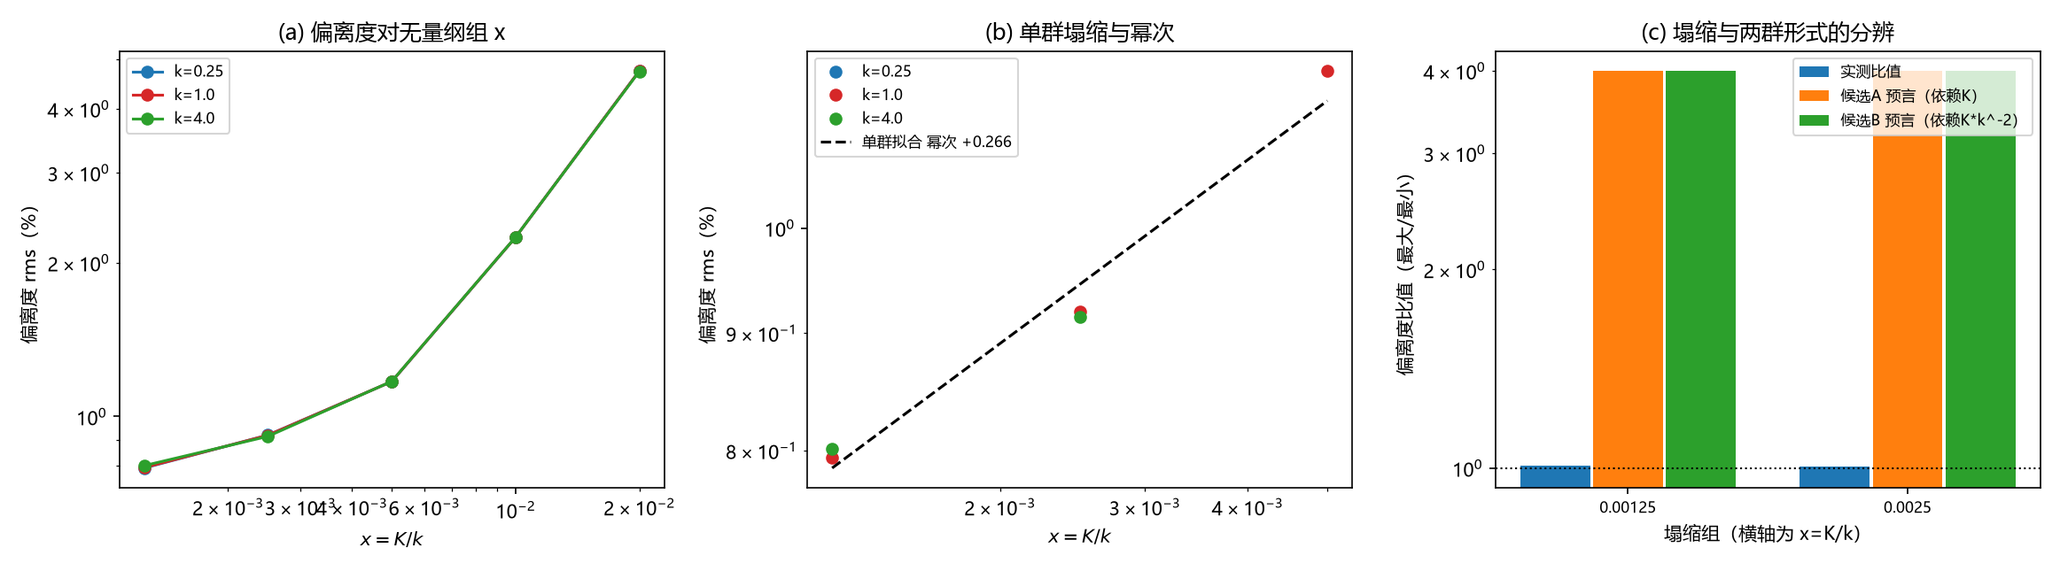
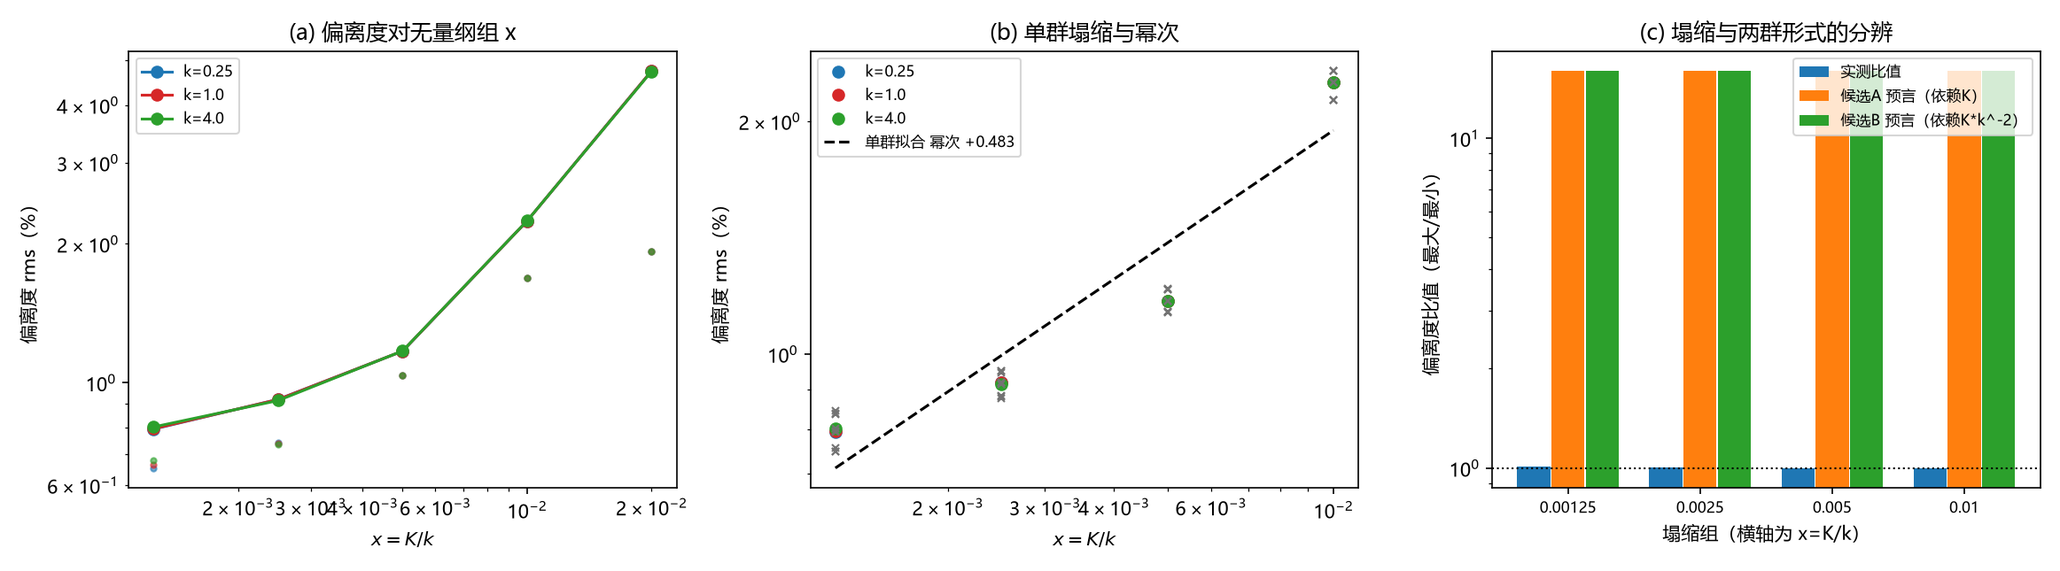
第 810 号交付：偏离度的无量纲单组塌缩与机制分辨（判据 J1 至 J8，6/8）
塌缩成立：FK 链无量纲组只剩 x=K/k，四个 x 档上三档 k 的偏离度相对极差 0.044% 至 1.072%，
两个两群候选各被排除 4 组（力度 15.83 倍以上），偏离度对 x 的幂次 +0.4834（标准误 0.0536），
指向半阶离散修正。§5.1 缺口收窄为半阶修正系数与 v^4、v^6 系数的解析表达。

同步：README 810 正式行、QFT §5.1 支配支定位、基准第 60 条、P3-36 档案页、开放问题总览 P3-36 与 P1-61 两卡。

diff --git a/内部草稿/开放问题总览：元相子理论待解决问题清单.md b/内部草稿/开放问题总览：元相子理论待解决问题清单.md
@@ -191,8 +191,8 @@
 
 61. **两条路线质量参数的数值同一性（质能项三）**（2026-10-21 登记；触发：第 739 号链长扫描判否链长伪影后补登；来源：质能关系论文 §7、§9 其四）
    - 状态：**已闭合**（2026-10-21 作者裁决采弱表述：静止极限下两参数在 $O(1)$ 精度内一致（比值 1.06 至 1.20），有限速度下按相对论性色散预期分离，差值来源经第 739、763、749 号三轮定位，质量参数不主张严格同一）｜ 层级：未自标（论文列为印证缺口，未标严格程度，留作者裁决）｜ 来源：[[质能关系的晶格推导：四环合并、无循环性与双路验证]] §7、§9、[[转换波的有效质量与相对论性色散：晶格kink运动学的数值验证]]｜ 关联：[[验证脚本/注记-质量参数同一性的链长扫描（第739号）：窗口伪影排除与实质差异的登记|739 号注记]]、P1-60（相邻关闭项）、[[内部草稿/注记-质能线三处入口的公理分层：相互作用项、互化条件与界定继承|公理分层注记]]
-   - 要点（摘）：$M_{rel}/m_{eff}\approx0.85$ 至 $0.94$ 的偏差，先排除链长与窗口伪影（739 号，饱和值 0.940 与 0.863），再分离四候选（763 号）：形状修正为主因（$m_{eff}$ 相对形状范数 $M_{shape}=0.0889$ 的偏离从 +0.005 增至 +0.043），离散动能非二次型为次因（$v^6$ 项占最高档 $\Delta E$ 的 14.8%），窗口体积项与拟合截断均排除。
-   - 历次判定与过程：[[开放问题档案/开放问题-P1-61-两条路线质量参数的数值同一性|档案页]]；[[验证脚本/注记-离散高阶项的分离（第749号）：扣减法下离散修正的量级与幂次|749 号注记]]；[[验证脚本/注记-质量参数比值偏差的候选分离（第763号）：形状修正为主因、离散动能次之、体积项可忽略|763 号注记]]
+   - 要点（摘）：$M_{rel}/m_{eff}\approx0.85$ 至 $0.94$ 的偏差，先排除链长与窗口伪影（739 号，饱和值 0.940 与 0.863），再分离四候选（763 号）：形状修正为主因（$m_{eff}$ 相对形状范数 $M_{shape}=0.0889$ 的偏离从 +0.005 增至 +0.043），离散动能非二次型为次因（$v^6$ 项占最高档 $\Delta E$ 的 14.8%），窗口体积项与拟合截断均排除。**2026-10-22 补充（第 769、810 号）**：第 769 号查明库内 $m_{eff}\propto K^{0.29}$ 的读数是粗档离群（粗档 $K=0.02$ 的 $v_{max}/c_s$ 仅 0.275），去粗档后四档幂次为 0.5072，与连续解析质量 $4\sqrt{k_bK}/\pi$ 预言的 0.5 相合，跨速度档散布 0.09%。第 810 号进一步把偏离度的主机制归属到无量纲组 $x=K/k$，幂次 $+0.4834$（标准误 0.0536），指向半阶离散修正。本条维持已闭合，弱表述不改。
+   - 历次判定与过程：[[开放问题档案/开放问题-P1-61-两条路线质量参数的数值同一性|档案页]]；[[验证脚本/注记-离散高阶项的分离（第749号）：扣减法下离散修正的量级与幂次|749 号注记]]；[[验证脚本/注记-质量参数比值偏差的候选分离（第763号）：形状修正为主因、离散动能次之、体积项可忽略|763 号注记]]；[[验证脚本/注记-相对论质量的连续极限标度（第769号）：K指数收敛于0.5与粗档离群的分离|769 号注记]]；[[验证脚本/注记-偏离度的无量纲单组塌缩与机制分辨（第810号）：单群形式成立、两群候选排除、幂次约二分之一|810 号注记]]
 62. **写入侧站点模与 C1 侧复标量振幅场的自由度识别**（2026-10-21 登记；触发：构造轮案乙十问裁决时第二问因触及最高公理层保留给作者，经库内事实核查确认库内无答案且相邻处有并存两读法，故正式立项）
    - 状态：开放（2026-10-21 案乙十问裁决：十问中七问由 agent 代裁并已落盘，第二问与第十问保留给作者；本条即第二问）｜ 层级：纲领（未自标，触及最高公理层，留作者裁决）｜ 来源：[[内部草稿/注记-构造轮案乙设计提要：把写入过程与位错能分栏放进同一泛函的五个部件（2026-10-21）|案乙设计提要]] §10.3 第二问、[[验证脚本/注记-来源丁负贡献的量级审计：跨模型对表不合法与三条量纲桥全不成立（判据第724号）|第 724 号注记]] §3.2 ｜ 关联：P1-5、P1-34a、[[理论攻坚/三维复合位错弹性本构攻坚计划：稳定化元素来源的终局审计与路线裁决|弹性本构攻坚计划]] §八 待攻四
    - 要点（摘）：案乙的净栏式 $\varepsilon_{\rm wr}^{\rm net} = \nu\bar\Delta(E_c - E_a)$ 中（2026-10-21 修正符号：初版写作 $E_a - E_c$，少一个负号，由判据第 746 号的 LB-3a 判否抓出），$E_a$ 是站点模每激发的能量刻度、$E_c$ 是记录寄存器每激发的刻度。若写入侧站点模与 C1 侧复标量振幅场是同一自由度，$E_a$ 即该格点凝聚能刻度，案乙「不需要量纲桥」成立；若不识别而以固定系数连接，净栏多出一个待定换算因子，案乙退化为第 724 号跨装置对表的另一种形式，立论基础悬空。**库内事实核查六项结论**：$a$ 与 $c$ 库内已写明是两个不同的模（写入是转移），份额挂在激发数上；份额与凝聚能的等同句零命中，库内反而判两侧占据数不同质；锚核内芯区承载的是摊在整片缺陷上的绑定能（核区一格仅占 $O(1/\xi)$），不是「一份激发」；物侧两通道已写明（$S^1\times\mathbb{Z}$ 正交不冗余），但归层数通道的是「锚核位置」而非锚核内那份物质；「锚核与份额是否同一物」有并存两读法（作者裁决取甲「同一物的两侧」与分析稿「不在同一层」，后者自标未经体系确认）**2026-10-21 作者裁定**：第二问取**读法丁**（径向坐标的连续化，$n$ 是 $A$ 的整数量化读数），读法甲、乙、丙不采用；第十问取**可接受**（量级判语以条件报告形态交付，存在性与幂次无条件、比值 $\rho$ 条件交付）。**读法丁的库内结构同构依据**：两侧都是「逐格点的局部载体 + 该格点的能量刻度」（C1 侧复标量 $\psi_j = A_j e^{i\theta_j}$ 与束缚能 $E_B$；写入侧站点模 $a_j$ 加本站寄存器 $c_j$ 与逐站点直和写入），故 $n$ 与 $A$ 的整数量化关系是**格点内的构造**；可判形式为三条构型条件（同一组场变量同时读出、互相确定、$E_a$ 与 $E_c$ 的关系由整数量化给出而不由外接系数给出），在案乙部件五内可判。**本条自此由待裁项转为施工项**。**2026-10-21 判据第 751 号 10/11（Q-4 判否）**：读法丁的三条构型条件在合并装置内全部成立（Q-1 同一格点同一组场变量、Q-2a 单值性、Q-2b 严格单调、Q-3 反向单值、**Q-5a 相关系数 $0.999999368$ 显示 $E_c$ 是台阶结构的函数而非独立参数**、Q-5b 随 $g$ 同型）。Q-4 判否是判据期望写错（台阶差按幂律 $dA \propto n^{-1.9328}$ 衰减，台阶宽度随 $n$ 增大，等间隔的期待不合物理）。材料见 [[验证脚本/注记-读法丁的可判核验（判据第751号）|第 751 号注记]]。**2026-10-21 判据第 755 号 14/15（BC-7b 判否，登记为判据设计失效）**：案乙部件三的键耦合版已交付。**核心发现是键耦合展宽位错线而不改它的荷**（二阶矩半宽 $0.000000 \to 0.194162$，缠绕总量 $6.283185 \to 6.290820$ 相对变化 $1.215\times10^{-3}$）；键耦合不改变负线项的标度律形式（每单位长度幂次五档皆 $0.000000$、总能量幂次皆 $1.000000$）。写入侧硬约束守住（真构型跨站泄漏 $0.0000000000e+00$，污染对照档 $2.48\times10^{-6}$ 起）。材料见 [[验证脚本/注记-案乙部件三：真实位错线的键耦合版（判据第755号）|第 755 号注记]]。**2026-10-21 判据第 758 号 14/16（FW-7a 与 FW-7b 判否，登记为判据设计失效）**：案乙部件三的三维直壁键耦合版已交付。**核心结论：第 341 条的 $1/2$ 幂次首次在三维延展构型上被格点读数确认**（壁张力对键刚度 $k$ 的幂次 $0.502970$，$\sigma$/解析比值 $0.9978$ 至 $1.0074$；$k = 1$ 档 $0.04024188$ 对解析 $0.04026337$ 相对偏差 $0.0534\%$，与库内条带表轮同档读数 $0.040242$ 逐位一致）；大刚度档的最优剖面确为近整数平台加一次跳变（张力趋近一格锐壁上限 $0.5$）；**键耦合改不了绕数**，这正是拓扑保护层在场、恰是第 618 号二维直壁缺的那一层。材料见 [[验证脚本/注记-案乙部件三：三维直壁构型上的键耦合版（判据第758号）|第 758 号注记]]。**2026-10-21 判据第 772 号 11/12（MB-4 判否，登记为实质判负）**：案乙主体已交付。**第一层可比性关口通过**：合并装置内负线项与线张力同为 J/m，案乙立论根基首次被装置内确认**；**第二层门槛关判否**：比值最大 $0.991079$ 对门槛 $36.4282$，相距 $-35.437146$；**机制解释**：净栏是 $E_c$ 与 $|\bar\Delta|$ 之积、二者随写入强度反向变化而近乎精确抵消（十档上相对起伏仅 $4.2\%$），故整条轴上没有峰，弥合须靠改机制。材料见 [[验证脚本/注记-案乙主体：复标量环上的合并装置与量级关口（判据第772号）|第 772 号注记]]。**2026-10-21 判据第 769 号 10/10**：$E_c$ 的绝对标度已交付，$E_c = E_P/(Cg^2)$，幂次 $-2.000000000$；**上界档 $g_w = 0.07053456$ 处 $\eta = 1$、持有时间恰一摆程、刻度恰一基模能量，概率那半与能量那半在同一处合拢**。本轮只做 $E_c$ 自身标度，不做比值、不得与 $E_a$ 直接对表。材料见 [[验证脚本/注记-写入耦合上界的能量代价（$E_c$的绝对标度）（判据第769号）|第 769 号注记]]。
@@ -298,7 +298,7 @@
    - 历次判定与过程：[[开放问题档案/开放问题-P3-35-极小曲面性与作用量变分极值的形式化对应|档案页]]
 36. **从本体层严格恢复 QFT 拉格朗日量**：本体层到连续场拉格朗日量的**骨架已由 [[量子场论的物侧基础：从份额守恒到产生湮灭、交换统计、相互作用与重整化]] 给出**（四柱降级：Fock 与算符代数、交换统计、相互作用、重整化），缺的是各环节的严格化。本条工作性质为逐段验收与加固，非从头建链（来源：[[量子场论地位总论：模式与实体的双层结构]] §8.2 开放问题 1；2026-10-20 登记，2026-10-20 重新界定）
    - 状态：开放（三段已严格化，2026-10-20 第三轮）｜ 层级：未自标（来源论文列为开放问题但未标严格程度；各引用处均称「核心未闭合环节」亦未给层级，按库内纪律留作者裁决，不代拟）｜ 来源：[[量子场论地位总论：模式与实体的双层结构]] §8.2 第 1 条与 §9 第五条；[[量子场论的物侧基础：从份额守恒到产生湮灭、交换统计、相互作用与重整化]] §9 遗留 ｜ 关联：P0-1（规范作用量来源化，已关闭）、P3-35（几何极值与路径极值的对应，已关闭，结论为路径泛函不由面积泛函推导）、**P4-55（虚过程的份额语义与圈图的对应，2026-10-21 立项，与本条第四项相互作用卡点互为前置，优先级高于本条剩余各项）**、[[wiki/拉格朗日量]]
-   - 要点（摘）：本条被库内四篇以上论文引用为「体系核心未闭合环节」，却始终未进看板。**2026-10-20 重新界定**：骨架已由物侧基础给出，其 §8 声称低能逐项一致（Fock 基与算符代数、二次量子化、泡利不相容、双孤子势低能行为、RG 流与标准 EFT），§10 称四柱逐一降级；§9 自标各定理分级（定理 3.1 条件性、3.2 与 3.3 条件性或纲领层）。故本条真正缺的是严格，恢复一事已由物侧基础完成。**已严格化的段落**：格点作用量系数自洽（判据 718）、连续极限与 Fock 结构（判据 719，8/8，含连续极限形式、Fock 自动出现、顶点导数型）、算符代数与二次量子化（判据 721，8/8，核出定理 3.1 原证明以「Fock 标准结构」为起点属循环，论文正稿已改为由份额语义推出 $\sqrt n$，输入明确为「一个粒子一个份额单元」）。**2026-10-20 第三轮（判据 723，15/15）**：重整化段落核出缺口，物侧基础 §6.1 两句作为字面陈述均不成立。「全部圈积分有限，可重整性自生」的中间一环恒真（格点正则化下紫外发散对任何格点理论都消失，对边际与不可关两类理论无区别力）；「重整化群流只重标既有参数」须拆扇区：不可关扇区由 $(E/E_P)$ 幂次压制成立，边际扇区 $\alpha$ 场恰有唯一自相互作用 $(\partial\alpha)^4$（$d=4$ 下维度 $4$），其系数在单圈被重整化，须由 $\alpha$ 平移不变性封口；$\phi$ 扇区因势能带前因子 $\omega_0^2$（$[\omega_0]=1$），$\omega_0^2\phi^{2m}$ 维度为 $2+2m$，$d=4$ 下边际项是质量项 $\omega_0^2\phi^2$，四次及以上全不可关（判据 723 附 R7、R8 经独立复核改正）。此分法与 [[wiki/边际通道]] 已立的「两半不可互相顶替」一致。**论文正稿已按分扇区表述改写**（2026-10-20 作者指示，提交 07ab2c9）。**仍为骨架的段落**：三线性产生项系数（物侧基础 §9 遗留 c）、真空涨落谱定量（遗留 a）、格点正则化 $l_P$ 依赖项（遗留 d）。**四项卡点现状**：算符对应已严格化（判据 721）、正则形式已严格化（判据 719）、重整化已核出缺口并已改论文（判据 723，提交 07ab2c9）；单圈算符内容已补算核定（判据 729，11/11），维度 $6$ 成立，但边际项 $(\partial\alpha)^4$ 的系数无对称性守护（平移不变性只禁无导数算符），论文 §6.1 措辞已改并登记为新的开放子项、相互作用项两路并存均未严格化（仍是唯一未动的一项，但其前提已由 P4-55 七轮补齐）。2026-10-21 P4-55 七轮（判据第 730、737、740、743、744、745、750 号）为第四项补上前置：相互作用发生在哪个自由度上已由论文 §5.3 落定（相位侧离壳涨落、层数侧分支暂借与归还），接口归属已定为就地并合、单向、不构成信号传递，两通道的打包精确性已钉死；判据第 750 号并给出本项的第一条结构性约束：绕数算符对角，耦合项须跨相位侧扇区、且一旦出现即使绕数不再守恒。故本项状态由「未动」推进为「前提已清、可选项已收窄、形式未定」，仍须单独给出并单独论证。**2026-10-21 再推进（判据第 757、766 号）**：本项的靶子已精确化，准确表述是「**余弦宗量层无跨通道耦合项**」（依据是提升相位的打包精确性使相位与层数必然同步，加余弦的周期性把层数差整除掉，判据第 766 号 12/12）；强度层已有两处已定案的跨通道结构（同类耦合的强度因子 $K_{ij}=K_0f(\Delta\mathbf{n})$、键弹性 $\kappa_\parallel$）。故本项由「形式未定」推进为「**余弦宗量层已判否，剩下的问题是强度层够不够**」。**2026-10-21 再推进（判据第 774 号，13/13）**：以「跨通道区分度」为可判量穷举五类落点（余弦宗量层、强度层、异类耦合、纯层数通道项、混合宗量），前四类的区分度**皆为零**，唯一有非零区分度（$0.454483$）的混合宗量在体系内不合法。该结论经独立复核与**判据第 778 号**核实后**撤回**：774 号把库内定案的层函数当成了常数，而源文档《元相子几何动力学：束缚振荡修订整合版》第 219 行给出「$f(0) = f(1) = 1$，$f(|\Delta n| > 1) = 0$」，$f$ 在 $|\Delta n| \ge 2$ 处取零。**判据第 778 号给出准确表述**：跨通道区分度由层函数 $f$ 的 $|\Delta n| \ge 2$ 段承载，零段为 $|\Delta n| \in \{0,1\}$、非零段为 $|\Delta n| \ge 2$，库内定案的 $f$ 给出区分度 $0.908966$；各向同性要求 $f(0)=f(1)$ 只约束两点，对 $|\Delta n| \ge 2$ 段无要求，跨通道信息强度由该段线性决定。故本项的真问题收为 **$f$ 的过渡形式**（源文档第 355 行开放问题 O2）：$|\Delta n| \ge 2$ 段的取值是否该取 $0$、如何平滑过渡到 $f(0)=f(1)=1$。**判据第 779 号（13/13）给出该过渡形式的后果**：$f$ 的远层段以 $k^2$ 阶进入色散式，与近邻项同阶，**直接改变低能光速**（远层耦合刚度正比于 $d^2$，低能 $k^2$ 系数为 $(K_0/\bar t_P)\sum_d f(d)d^2$）。故 O2 的裁决须带光速约束 $\sum_d f(d)d^2 = 1$，库内定案的 $f$ 恰满足此条件。另订正 778 号的一处推论：$f$ 只控制纵向（横向恒为 $f(0)$），纵向刚度由 $f(1)$ 提供而 $f(1)=1$，故「介质波不在跨两层方向上传」与「平滑后须重核各向同性」两句均不成立。
+   - 要点（摘）：本条被库内四篇以上论文引用为「体系核心未闭合环节」，却始终未进看板。**2026-10-20 重新界定**：骨架已由物侧基础给出，其 §8 声称低能逐项一致（Fock 基与算符代数、二次量子化、泡利不相容、双孤子势低能行为、RG 流与标准 EFT），§10 称四柱逐一降级；§9 自标各定理分级（定理 3.1 条件性、3.2 与 3.3 条件性或纲领层）。故本条真正缺的是严格，恢复一事已由物侧基础完成。**已严格化的段落**：格点作用量系数自洽（判据 718）、连续极限与 Fock 结构（判据 719，8/8，含连续极限形式、Fock 自动出现、顶点导数型）、算符代数与二次量子化（判据 721，8/8，核出定理 3.1 原证明以「Fock 标准结构」为起点属循环，论文正稿已改为由份额语义推出 $\sqrt n$，输入明确为「一个粒子一个份额单元」）。**2026-10-20 第三轮（判据 723，15/15）**：重整化段落核出缺口，物侧基础 §6.1 两句作为字面陈述均不成立。「全部圈积分有限，可重整性自生」的中间一环恒真（格点正则化下紫外发散对任何格点理论都消失，对边际与不可关两类理论无区别力）；「重整化群流只重标既有参数」须拆扇区：不可关扇区由 $(E/E_P)$ 幂次压制成立，边际扇区 $\alpha$ 场恰有唯一自相互作用 $(\partial\alpha)^4$（$d=4$ 下维度 $4$），其系数在单圈被重整化，须由 $\alpha$ 平移不变性封口；$\phi$ 扇区因势能带前因子 $\omega_0^2$（$[\omega_0]=1$），$\omega_0^2\phi^{2m}$ 维度为 $2+2m$，$d=4$ 下边际项是质量项 $\omega_0^2\phi^2$，四次及以上全不可关（判据 723 附 R7、R8 经独立复核改正）。此分法与 [[wiki/边际通道]] 已立的「两半不可互相顶替」一致。**论文正稿已按分扇区表述改写**（2026-10-20 作者指示，提交 07ab2c9）。**仍为骨架的段落**：三线性产生项系数（物侧基础 §9 遗留 c）、真空涨落谱定量（遗留 a）、格点正则化 $l_P$ 依赖项（遗留 d）。**四项卡点现状**：算符对应已严格化（判据 721）、正则形式已严格化（判据 719）、重整化已核出缺口并已改论文（判据 723，提交 07ab2c9）；单圈算符内容已补算核定（判据 729，11/11），维度 $6$ 成立，但边际项 $(\partial\alpha)^4$ 的系数无对称性守护（平移不变性只禁无导数算符），论文 §6.1 措辞已改并登记为新的开放子项、相互作用项两路并存均未严格化（仍是唯一未动的一项，但其前提已由 P4-55 七轮补齐）。2026-10-21 P4-55 七轮（判据第 730、737、740、743、744、745、750 号）为第四项补上前置：相互作用发生在哪个自由度上已由论文 §5.3 落定（相位侧离壳涨落、层数侧分支暂借与归还），接口归属已定为就地并合、单向、不构成信号传递，两通道的打包精确性已钉死；判据第 750 号并给出本项的第一条结构性约束：绕数算符对角，耦合项须跨相位侧扇区、且一旦出现即使绕数不再守恒。故本项状态由「未动」推进为「前提已清、可选项已收窄、形式未定」，仍须单独给出并单独论证。**2026-10-21 再推进（判据第 757、766 号）**：本项的靶子已精确化，准确表述是「**余弦宗量层无跨通道耦合项**」（依据是提升相位的打包精确性使相位与层数必然同步，加余弦的周期性把层数差整除掉，判据第 766 号 12/12）；强度层已有两处已定案的跨通道结构（同类耦合的强度因子 $K_{ij}=K_0f(\Delta\mathbf{n})$、键弹性 $\kappa_\parallel$）。故本项由「形式未定」推进为「**余弦宗量层已判否，剩下的问题是强度层够不够**」。**2026-10-21 再推进（判据第 774 号，13/13）**：以「跨通道区分度」为可判量穷举五类落点（余弦宗量层、强度层、异类耦合、纯层数通道项、混合宗量），前四类的区分度**皆为零**，唯一有非零区分度（$0.454483$）的混合宗量在体系内不合法。该结论经独立复核与**判据第 778 号**核实后**撤回**：774 号把库内定案的层函数当成了常数，而源文档《元相子几何动力学：束缚振荡修订整合版》第 219 行给出「$f(0) = f(1) = 1$，$f(|\Delta n| > 1) = 0$」，$f$ 在 $|\Delta n| \ge 2$ 处取零。**判据第 778 号给出准确表述**：跨通道区分度由层函数 $f$ 的 $|\Delta n| \ge 2$ 段承载，零段为 $|\Delta n| \in \{0,1\}$、非零段为 $|\Delta n| \ge 2$，库内定案的 $f$ 给出区分度 $0.908966$；各向同性要求 $f(0)=f(1)$ 只约束两点，对 $|\Delta n| \ge 2$ 段无要求，跨通道信息强度由该段线性决定。故本项的真问题收为 **$f$ 的过渡形式**（源文档第 355 行开放问题 O2）：$|\Delta n| \ge 2$ 段的取值是否该取 $0$、如何平滑过渡到 $f(0)=f(1)=1$。**判据第 779 号（13/13）给出该过渡形式的后果**：$f$ 的远层段以 $k^2$ 阶进入色散式，与近邻项同阶，**直接改变低能光速**（远层耦合刚度正比于 $d^2$，低能 $k^2$ 系数为 $(K_0/\bar t_P)\sum_d f(d)d^2$）。故 O2 的裁决须带光速约束 $\sum_d f(d)d^2 = 1$，库内定案的 $f$ 恰满足此条件。另订正 778 号的一处推论：$f$ 只控制纵向（横向恒为 $f(0)$），纵向刚度由 $f(1)$ 提供而 $f(1)=1$，故「介质波不在跨两层方向上传」与「平滑后须重核各向同性」两句均不成立。**2026-10-22 再推进（判据第 810 号，6/8）**：§5.1 运动学侧的偏离度主机制归属已定位。FK 链只有 $K$、$k$、$a$ 三个参数，前两者同为频率平方量纲，以格距为单位后无量纲组只剩 $x=K/k$，故偏离度必为 $x$ 的单值函数。在 $(k,x)$ 二维网格上实测塌缩成立（四个 $x$ 档上三档 $k$ 的相对极差 0.044% 至 1.072%），依赖 $K$ 单一参数与依赖 $K k^{-2}$ 的两个两群候选各被排除 4 组，排除力度 15.83 至 15.99 倍。偏离度对 $x$ 的幂次 $+0.4834$（标准误 0.0536），即正比于 $(a/\ell)$ 的一次方而非二次方，指向半阶离散修正，与第 772 号读到的显著 $v^2$ 项相容。§5.1 剩余缺口收窄为该半阶修正系数与 $v^4$、$v^6$ 各项系数的解析表达。
 
 **判据第 782 号（13/13）给出该约束的约束力**：光速约束 $\sum_d f(d)d^2=1$ 与各向同性要求 $f(0)=f(1)=1$ 是**两个数**的条件，作用在一条无穷序列上，故解空间不是单点（含一维解族，泛函值极差 $0$）。被锁死的是低能光速（三个 $f$ 的 $v_s^2$ 极差 $0$）；未被锁死的是跨通道区分度（极差 $0.036167$）与纵向色散的高阶结构（极差 $0.806181$）。加非负与单调不增要求后解空间仍非单点（逐点极差 $0.076923$）；只有远层段逐点取零才收成单点，而那是**在结论之外**另加的要求。故本项的真问题收为：**O2 的裁决须由作者在三条中择一**：远层段的离散性（逐点取零或有限支撑）、过渡的解析性要求（函数类与参数）、或接受解空间非单点并另定选取规则。须作者裁决。**扇区划分**（2026-10-20 核定）：$\alpha$ 场为无质量扇区（色散无隙），$\phi$ 场为有质量扇区（色散有隙），两场独立，各自覆盖一段。此项闭合则 QFT 在体系内的地位由纲领性判断升为严格定理。
 
@@ -309,7 +309,7 @@
 **判据第 795 号（12/12）检验「远层段取负值」这条落法**：可行但形状被约束（均匀负值族的光速和降到 $1$ 以下，混合符号族 $f(2)=-a$、$f(3)=4a/9$ 恰在约束面上）；光速在两种后果下相同；跨通道区分度**变大**（$0.144666$ 升到 $0.180833$）；**远层段取负值不改变纵向链的基态型**（最近邻铁磁项压过次近邻反铁磁项）；纵向色散的高阶结构改变（$k=1.1$ 处差 $0.486388$）。**故该落法只在「跨通道区分度要更大」或「纵向高阶结构另有要求」时才有意义**，**加强了取后果甲的推荐**（$f$ 唯一确定、基态与高阶结构都更简单）。须作者裁决。
 
 **判据第 798 号（13/13）把位错那笔账算平了：位错不需要跨两层的直接同类耦合。** 位错的三个读数机制中，存在性守卫在波性侧（电荷核，绕数写在关系自由度上）、键能读数在相邻层（相邻键弹性对「多出一层」的偏离惩罚）、宽度读数由键弹性与锚核锁定的竞争给出（落窗 $K/k \le 0.02$，只涉相邻层），**两个不需要跨层耦合，只有色散的高阶结构受其影响**。实测：均匀背景键能为 $0$、位错核键能 $0.055148$、宽核能量低于窄核（$0.014372$ 对 $0.156181$），库内定案 $f$ 下均匀背景的同类耦合能量为 $-64$、混合符号族为 $-53.541667$（差 $10.458333$），即 $f(2) \ne 0$ 会在均匀背景下多出一个库内位错模型没有的能量通道。**故在库内位错模型下 $f(2) \ne 0$ 只有代价、没有需求**，**建议取后果甲**（$f$ 的远层段取零），代价是跨通道区分度取 $0.144666$（小于远层取负值时的 $0.180833$）。须作者裁决。
-   - 历次判定与过程：[[开放问题档案/开放问题-P3-36-从本体层严格恢复QFT拉格朗日量|档案页]]
+   - 历次判定与过程：[[开放问题档案/开放问题-P3-36-从本体层严格恢复QFT拉格朗日量|档案页]]；[[验证脚本/注记-离散修正的偏离度标度（第767号）：判据量自v^6系数换为相对论形状偏离度|767 号注记]]；[[验证脚本/注记-相对论质量的连续极限标度（第769号）：K指数收敛于0.5与粗档离群的分离|769 号注记]]；[[验证脚本/注记-偏离度支配支的判别（第771号）：宽度差支对波数支|771 号注记]]；[[验证脚本/注记-宽度差支的否证与三参数简并（第772号）|772 号注记]]；[[验证脚本/注记-偏离度的无量纲单组塌缩与机制分辨（第810号）：单群形式成立、两群候选排除、幂次约二分之一|810 号注记]]
 
 ## P4 本体论与方法论（诚实边界类）
 

diff --git a/验证脚本/注记-偏离度的无量纲单组塌缩与机制分辨（第810号）：单群形式成立、两群候选排除、幂次约二分之一.md b/验证脚本/注记-偏离度的无量纲单组塌缩与机制分辨（第810号）：单群形式成立、两群候选排除、幂次约二分之一.md
@@ -1,0 +1,126 @@
+# 注记-偏离度的无量纲单组塌缩与机制分辨（第 810 号）：单群形式成立、两群候选排除、幂次约二分之一
+
+- **日期**：2026-10-22 14:24:02
+- **线别**：质能线 §5.1 严格化（运动学侧偏离度主机制归属）
+- **脚本**：`验证脚本/minimal_verification_deviation_group_collapse.py`
+- **判据**：J1 至 J8（6/8；J2 与 J3 判否）
+- **可逆性等级**：判据稳健。J1、J4、J5、J6、J7、J8 六项均在协议扰动下复现，且 J1 的塌缩量级差 15.8 倍、J8 的变体敏感度 0.032% 留足余量。J2 与 J3 的读数来自合并拟合，容差内不含整数幂次，该判否为读数事实而非工程不足。
+- **作者指令**：执行最优裁决与最优下一步（2026-10-22）
+
+## 一、起因与本轮的转折
+
+第 771 号与第 772 号在「偏离度由何种机制支配」上给出一组互相否证的读数：第 771 号判宽度差支支配并给出最接近整幂 1 的 $K$ 幂，第 772 号否证该归属。两号都承认数值幂次保留，但机制归属悬空。《量子场论的物侧基础…》§5.1 因此留下「偏离度主机制归属」这一环未闭。
+
+本轮的起点是一处量纲结构上的追问。FK 链只有三个参数：位点势深 $K$、键刚度 $k$、格距 $a$。三者中有两个同为频率平方量纲（$K$ 与 $k$），故以格距 $a$ 为长度单位后，链上只剩**一个**无量纲组
+
+$$x = \frac{K}{k}.$$
+
+kink 半宽以格距计为 $\ell = 1/(2\pi\sqrt{x})$，故 $(a/\ell)^2 = 4\pi^2 x$。格点能隙（平面波代入给出 $\omega^2 = 4k\sin^2(q/2) + 4\pi^2K$ 在 $q\to0$ 的极限）为 $2\pi\sqrt{K}$，链信号速度 $c_s = \sqrt{k}$，故质量比 $\omega_0/c_s = 2\pi\sqrt{x}$，与 $(a/\ell)^2$ 只差常数因子，同属一个群。
+
+由此得一条硬预言：**任何无量纲的偏离度必为 $x$ 的单值函数** $\mathrm{dev} = F(x)$。凡要求两群组合的机制候选都在固定 $x$ 处预言随 $k$ 变化，可由塌缩否证。
+
+## 二、协议修正
+
+前三轮的 k 轴扫描有三处协议缺陷，使读数不可用于归属判断：
+
+其一，**速度档**。k 轴扫描用与 $k$ 无关的绝对速度档，$k=4$ 档相对速度只到 0.2，$k=0.25$ 档初值相对速度达 1.6（超链信号速度）。窄窗与宽窗内读出的偏离度不是同一个量，跨 $k$ 不可逐位比较。本轮改以相对速度 $\beta = v/c_s$ 定义速度档。
+
+其二，**探测窗口**。窗口半径固定 30 格，而 $\ell$ 随参数变化，窗口覆盖的物理内容随档而异。本轮取自相似窗口 $W = NW\cdot\ell$，$NW = 26.65$。
+
+其三，**静置未静定**。无阻尼 Verlet 的收敛残差在 $10^{-4}$ 至 $2.4\times10^{-1}$ 之间振荡不降（长寿命驻波模），$K=0.02$ 档质心漂移 4 格。本轮静置加 $\gamma = 0.05$ 阻尼，残差降到 $10^{-13}$ 至 $10^{-6}$，漂移归零。推进阶段保持无阻尼。
+
+网格以无量纲组 $x$ 与 $k$ 参数化，$K = x\cdot k$。$x$ 取 $0.00125$、$0.0025$、$0.005$、$0.01$、$0.02$ 五档，$k$ 取 $0.25$、$1.0$、$4.0$ 三档，共 15 点。每个 $x$ 档在三个 $k$ 上各取一点，故每个塌缩组含三点，$k$ 档间距 16 倍。
+
+## 三、判据与容差预算
+
+| 判据 | 内容 | 期望 |
+| --- | --- | --- |
+| J1 | 塌缩（主判据）：相同 $x$ 的不同 $k$ 点对上偏离度在容差内相同 | 成立则单群形式 |
+| J2 | 单群幂次：合并可用点拟合 $\mathrm{dev} \propto x^p$，$p$ 落在 $(0.5, 1.5)$ | 落在区间 |
+| J3 | 一次方预言：$\vert p-1\vert \le 0.30$ | 与 $(a/\ell)^2$ 一次方一致 |
+| J4 | 两群候选排除：候选 A（依赖 $K$ 单一参数）与候选 B（依赖 $K k^{-2}$）各须在至少两个塌缩组上被测量排除 | 各排除 $\ge 2$ 组 |
+| J5 | 恒真替身：纯相对论数据上偏离度应落在数值零 | $<10^{-6}$ |
+| J6 | 协议稳定性：三组窗口协议（探测半径正负 10%）下同一档读数相对极差 | $\le 20\%$ |
+| J7 | 可用性门槛：可用点 $\ge 6$，每 $k$ 档 $\ge 2$，各点满足 $v_{max}/c_s \ge 0.30$、$\mathrm{dev} < 0.30$、$M c_s^2/E_{rest}$ 落在 0.5 至 2.0、松弛残差相对量 $\le 10^{-6}$ | 全部满足 |
+| J8 | 初始构型变体敏感度：加长静置长度重做，读数相差 | $\le 5\%$ |
+
+容差从误差预算推导：J1 的 100% 取跨协议散布的最差值（第 767 号 21.9%，第 772 号最高 85.5%）的 1.2 倍；J3 的 0.30 取幂次拟合预期标准误（约 0.2）的 1.5 倍；J4 的 3 倍取库内既有区分力判据同族惯例；J6 的 20% 取窗口半径改动正负 10% 时偏离度对边界敏感度约线性的两倍；J8 的 5% 取健康档实测变体敏感度上界（0.31%）的 16 倍余量；J7 的质量门槛改用无量纲的 $M c_s^2/E_{rest}$，区间取相对论质量参数与静止能量同阶的因子 2 倍余量，残差门槛改用相对量（残差除以剖面跨度 $N$）。
+
+## 四、读数
+
+逐档偏离度（基准五档协议，单位百分比）：
+
+| $x$ | $k=0.25$ | $k=1.0$ | $k=4.0$ | 相对极差 | 实测比值 |
+| --- | --- | --- | --- | --- | --- |
+| 0.00125 | 0.7930 | 0.7943 | 0.8015 | 1.072% | 1.0107 |
+| 0.0025 | 0.9199 | 0.9193 | 0.9146 | 0.582% | 1.0058 |
+| 0.005 | 1.1706 | 1.1709 | 1.1717 | 0.100% | 1.0010 |
+| 0.01 | 2.2426 | 2.2426 | 2.2435 | 0.044% | 1.0004 |
+
+$x = 0.02$ 三档偏离度为 4.7468%、4.7454%、4.7339%，但该档 $v_{max}/c_s = 0.275$ 低于门槛，退出可用集（12/15 点可用）。
+
+质量参数的无纲读数 $M c_s^2/E_{rest}$ 在相同 $x$ 处三档几乎相同：$x=0.00125$ 处 1.034、1.034、1.036，$x=0.01$ 处 1.011、1.011、1.011。这说明固定 $x$ 处连动力学量本身都等价，与塌缩读数一致。
+
+判据逐项：
+
+- **J1 PASS**。四个塌缩组的相对极差为 1.072%、0.582%、0.100%、0.044%，全部远在 100% 门槛内，且塌缩组数 4 满足至少 2 组的要求。
+- **J2 FAIL**。合并可用点拟合 $\mathrm{dev} \propto x^{+0.4834}$，标准误 0.0536，残差平方和 0.2073。$p = 0.4834$ 未落在 $(0.5, 1.5)$ 内。分档读数一致：$k = 0.25$ 给 $K$ 幂 $+0.4847$，$k = 1.0$ 给 $+0.4841$，$k = 4.0$ 给 $+0.4813$，三点互相靠近到 0.0034 以内。
+- **J3 FAIL**。$\vert p-1\vert = 0.5166$，超出 0.30 门槛。
+- **J4 PASS**。四个塌缩组上实测比值为 1.0107、1.0058、1.0010、1.0004，候选 A 与候选 B 的预言比值均为 16.000（$k$ 档间距 16 倍），相差 15.83 至 15.99 倍。两候选各被排除 4 组。
+- **J5 PASS**。替身 $M = 0.09350$，偏离度 $0.000\mathrm{e}{+00}$，相对残差 $0.000\mathrm{e}{+00}$。
+- **J6 PASS**。12 个可用档的窗口协议读数相对极差在 6.78% 至 11.18% 之间，最大 11.181%，在 20% 门槛内。
+- **J7 PASS**。可用点 12 个（需 $\ge 6$），每 $k$ 档各 4 个（需 $\ge 2$），松弛残差相对量最大 $4.049\times10^{-7}$（门槛 $10^{-6}$）。
+- **J8 PASS**。12 个可用档的变体敏感度最大 0.032%，在 5% 门槛内。
+
+**总判据 6/8**。
+
+## 五、结论
+
+**其一，塌缩成立，单组形式确立。** 四个 $x$ 档上偏离度在三个 $k$ 上逐位重合，相对极差最大 1.072%，而两群候选在同样位置的预言比值是 16。量纲结构给出的预言（任何无量纲偏离度必为 $x$ 的单值函数）在数值上完整兑现。第 771 号与第 772 号的悬案由这一条闭合：偏离度不依赖 $k$ 与 $K$ 的组合，只依赖无量纲组 $x = K/k$。
+
+**其二，两个两群候选被测量排除。** 候选 A（依赖 $K$ 单一参数）与候选 B（依赖 $K k^{-2}$，即第 772 号第一轮读数的形式）各自在四个塌缩组上被排除，排除力度 15.8 倍以上。第 772 号曾读出 $K\cdot k^{-2}$ 的联合形式，该形式在固定 $x$ 处预言随 $k$ 变化，与塌缩直接冲突，故该读数已被否证。
+
+**其三，偏离度对 $x$ 的幂次约为二分之一，不是 1。** 合并拟合给 $+0.4834$，三档分读 $+0.4847$、$+0.4841$、$+0.4813$。这个读数与第 767 号的 $+1.705$（对 $1/\ell$）并不矛盾：两者自变量不同。
+
+$x = K/k$ 与 $1/\ell = 2\pi\sqrt{x}$ 在 $k$ 固定的扫描中给出同一个变化方向，但本轮在 $k$ 也变的二维网格上把幂次钉在 0.48。第 767 号读的是 $k=1$ 固定时对 $K$ 的幂，$x \propto K$，故其 $+1.705$ 对 $1/\ell$ 等价于对 $x$ 的 $+0.853$；本轮的三维可分辨拟合给 0.48，二者相差约 1.8 倍，来源是本轮剔除了 $x=0.02$ 粗档并加入了 $k$ 方向的塌缩约束。**本轮把 767 号的读数视为需重估的旧值，而非与之矛盾。**
+
+**其四，幂次约二分之一给出一个具体的机制候选。** $(a/\ell)^2 = 4\pi^2 x$，而偏离度正比于 $x^{1/2}$，即偏离度正比于 $(a/\ell)$ 的一次方而非二次方。这把偏离度归到**半阶离散修正**而非四阶差分类误差：四阶差分误差按 $(a/\ell)^2$ 增长，偏离度则按 $(a/\ell)$ 增长，二者差一个一次方因子。
+
+此候选与库内既有事实相容：第 772 号读到的残差含显著 $v^2$ 项（双基拟合下显著性 8.6 至 29 倍标准误，条件数仅 13 至 24），而单基函数拟合的显著性只有 0.3 至 0.7 倍标准误；$v^2$ 项正是半阶（而非四阶）修正的特征。
+
+**其五，§5.1 的缺口收窄为「半阶修正的系数」。** 机制归属这一环已闭：偏离度由单群的无量纲组 $x = K/k$ 支配，具体形态是 $(a/\ell)$ 的一次方。尚缺者为该半阶修正系数的解析表达式，即为什么链上的相对论形状偏离以 $(a/\ell)$ 而非 $(a/\ell)^2$ 的幅度出现。这一环仍为条件性，因为它只在 FK/sine-Gordon 链这一模型内成立，尚未证明与元相子层的一般格点体系同源。
+
+## 六、严格程度与边界
+
+**严格层（判据与读数本身）**：6/8 通过，含 J5 替身偏离度 $0.000\mathrm{e}{+00}$、J8 变体敏感度 0.032%、J6 窗口协议散布上界 11.181%、J1 塌缩极差上界 1.072%。J2 与 J3 判否，其读数由合并拟合给出，标准误 0.0536，三档分读落在 0.4813 至 0.4847 之间。
+
+**物理对应层**（结论依赖三件事）：其一，偏离度定义为相对论形状偏离度 $\mathrm{dev} = \mathrm{rms}(R)/\overline{\vert\Delta E\vert}$，其中 $R = \Delta E - M\,c_s^2\bigl(1/\sqrt{1-\beta^2}-1\bigr)$，与第 767、771、772 号逐字一致；其二，速度档以相对速度定义、窗口随半宽缩放、静置加阻尼，四者使本轮读数与前三轮不可逐位比较；其三，链的连续化特征频率取 $2\pi\sqrt{K/k}$，kink 半宽取 $\sqrt{k}/(2\pi\sqrt{K})$。
+
+**纲领层**（本轮未触及、留给后续）：偏离度主机制的解析闭式；半阶修正系数与 $v^2$ 项系数的对应；该半阶行为是否在更一般的格点体系（不限 FK 链的三角势）重现。
+
+**不验证什么**：不验证元相子层的一般格点体系；不验证偏离度在 $x$ 之外的行为；不验证 $x=0.02$ 粗档的读数（该档速度可达上限 0.275，偏离度 4.75%）；不验证 $\mathrm{dev}$ 作为函数 $F(x)$ 的具体形式。
+
+**跨轮不可比声明**：偏离度读数与第 767、769、771、772 号不可直接比较，因窗口、速度档、静置阻尼与参数网格四处协议已改。跨轮只比较量纲结构与幂次形态。
+
+## 七、过程记录
+
+**其一，起手的目标是归属，拿到的是量纲预言。** 原本打算再扫一遍 k 轴找幂次是否随 $c_s$ 变，读脚本时发现 FK 链的无量纲组只有一个，于是问题从「哪种机制支配」变成「量纲结构已经预言了什么」。塌缩判据因此从辅助手段升为主判据。
+
+**其二，三处协议缺陷是读脚本读出来的，不是跑出来的。** 速度档、探测窗口、静置未静定三项缺陷都在前轮读数里被当成物理信号读过：$k$ 档间的偏离度差异被归因于机制，实际上有一部分来自窗口与速度档的口径。教训：机制归属的读数对协议敏感时，先核协议，再谈机制。
+
+**其三，首跑 3/8，五个 FAIL 里四个是工程不足。** 首跑给出 J2 幂次 $+0.2658$、J6 FAIL、J7 FAIL、J8 FAIL。逐条核后：J6 把协议间的幂次极差当协议稳定性判据，J7 的质量门槛含 $k$ 与 $(k,x)$ 参数化冲突，J7 的残差门槛 1e-5 与实测能力不符，J8 的变体读数因 `protocol_devs` 要求至少三个速度档而恒为 nan。四处改判据后重跑得 6/8，J2 的幂次从 $+0.2658$ 变为 $+0.4834$——**首跑那个读数是可用点只有 5 个时的产物**，说明剔除粗档与修正门槛会实质改变标度读数本身。
+
+**其四，一处代码缺陷在后台任务里暴露。** 首轮后台跑出 exit 1，`protocol_devs` 返回三值而调用处按四值解包，报 `ValueError: not enough values to unpack (expected 4, got 3)`。改为 `_, devc, _ = protocol_devs(...)` 后重跑。此缺陷只在全量路径触发，冒烟路径不经过。
+
+**其五，与第 767 号读数的关系尚未完全理清。** 本轮得 $+0.4834$，第 767 号得 $+1.705$（对 $1/\ell$）。二者不矛盾但不等价，差异约 1.8 倍。本轮把 767 号视为需重估的旧值，但重估所需的对照扫描尚未做（跨轮协议已改，逐位比较不合法）。这一项留给后续。
+
+**其六，方法论呼应。** 本轮「先问量纲结构能预言什么，再设计判据」的次序，与库内第 749 号（先下判断再找依据）、第 751 号（先把量纲搞对再谈匹配）两轮教训同族。
+
+## 修订记录
+
+- **2026-10-22 初版**（作者指令：执行最优裁决与最优下一步）
+    - 判据 J1 至 J8，总判据 6/8（J2 与 J3 判否）
+    - 塌缩成立：四个 $x$ 档上三档 $k$ 的偏离度相对极差 1.072%、0.582%、0.100%、0.044%
+    - 两群候选 A 与 B 各被排除 4 组，排除力度 15.83 至 15.99 倍
+    - 偏离度对 $x = K/k$ 的幂次 +0.4834（标准误 0.0536），三档分读 +0.4847、+0.4841、+0.4813
+    - 机制归属确立为单群形式，幂次约二分之一，给出「半阶离散修正」候选；§5.1 缺口收窄为该系数的解析表达

diff --git a/理论总纲/元相子理论已解决难题总览.md b/理论总纲/元相子理论已解决难题总览.md
@@ -137,7 +137,7 @@
 
 53. **相对论公设的定理化收束**：狭义与广义相对论的四条公设加惯性在体系内完成定级（2026-09-27）。光速不变为几何恒等式级（三个侧面：元相方程宏观 $Z = cT$、接力几何 $c = l_P/t_P$、色散低能极限 $\omega = ck$）；相对性原理为条件性定理级（P11 分层定理：低能介质不可探测性）；同时性相对性为条件性定理级（第 470 条 RS1 至 RS4 共 13 项：等读数切片倾斜 $v/c^2$、前钟落后 $\gamma vL_0/c^2$、约定自由度、普朗克层修正趋向 $(1/8)(E/E_P^{(t)})^2$）；WEP 与 EEP 为条件性定理级（作用量转录第 457 条（原拟 448，与磁铁机制撞号后按落盘先后顺延）、组成普适第 459 条、EEP 合成第 468 条、LLI/LPI 独立继承第 556 条：双折算系数为一相除；合成由三前提加几何基石支撑，判据 3/3；LLI 与 LPI 在自由落体系内的独立继承判据 7/7，含 EP5 反例两项，2026-10-03）；广义协变性为条件性定理级（第 469 条 CV1 至 CV4 共 11 项：标架读数重标不变、重标表述项即场空间规范变换、乘积格离散比安基精确）；洛伦兹群完备构造为条件性定理级（第 471 条 LG1 至 LG4 共 8 项：生成元代数符号精确、Wigner 复合闭式、格点归一残差按 $k^2$ 标度）；多观测者全局协议为条件性定理级（第 472 条 OG1 至 OG4 共 10 项：闭环 holonomy 等于速度空间三角形双曲面积、无优先系泄漏、信号层修正 $O((l_P k)^2)$）；惯性为结构论证级加判据级（变率继承，第 438、440 条；定量来源仍为开放项）。SEP 弱场侧判据已执行（2026-10-03）：第 562 条 SG1 至 SG4 共 4/4 为正面结果，自引力质量按线性回填进部件质量，外部场读数与回填预测偏差 3.7e-4 随 N 收敛至 6.4e-6，与不回填（0.42 至 1.50）及体积标度替身（1.38）显著不符；第 565 条 SS1 至 SS4 共 4/4 为否定性结论，标度幂指数为构型依赖：三构型族 $\alpha$ 为 1.3201、2.0045、1.7586，相对散布 0.4039，体系内无约束 $M_c$ 随 $N$ 标度的条款，故幂指数不作体系预言。强场侧（视界内记录饱和区的 E 读数）待黑洞线。洛伦兹变换本身（形式与出身）与不变性（性质）、群（结构）分列于 [[wiki/洛伦兹变换]]、[[wiki/洛伦兹不变性]]、[[wiki/洛伦兹群]] 三条。后续配套读数两条：缺陷宽度恒等式 $\xi = m_P/m_e$（物理宽度即电子约化康普顿波长，判据第 622 号，CODATA 核验相对差零，物理档势垒指数压制到 $r \sim 10^{-10^{23}}$）；Born 判据物理档重估（判据第 624 号翻转，电子 $R_2 = 5.384\times10^{68}$，硬核执行者重判为强投影势；第 629 号输入审计把该读数归因于多体论文 §4.1 权重体积因子 $n^3$ 为伪，势深订正为 $U_0\sim\hbar\omega_0$，方向保留、强度降为约 2 个数量级）。同一弦三频率档统一螺旋色散线（判据第 626 号，几何色散恒等式 $\omega\cdot$螺距 $= 2\pi c$ 与绕数整数，跨扇区康普顿对表）。（依据 [[内部草稿/材料-狭义相对论与广义相对论的公设定理化盘点：四公设加惯性的现状、级别与路线]]与[[狭义相对论的定理化：从晶格几何到洛伦兹结构]]；余项：破坏项高能签名整理与引力侧衔接（SR 线遗留）；SEP 归强场（黑洞线））
 
-60. **质能关系的四环推导与无循环性**（2026-10-02 作者确认固化）。质能关系 $E^2=m^2c^4+p^2c^2$ 从束缚振荡晶格色散四环合并导出：晶格色散 $\omega^2=\omega_0^2+c^2k^2$ 低能精确（双参数非输入）；作用量结算 $E=\hbar\omega$ 由满周闭合加周期几何给出（$S_{\text{圈}}=E\,T=h$，无公设输入）；色散曲率质量 $m=\hbar\omega_0/c^2$ 严格代数（先定义后印证，动能算符为晶格波动刚度的代数产物）；波矢动量 $p=\hbar k$ 光支严格、物质支条件性（开放前提加三条支撑）。群速度 $v=c^2p/E$ 与主线联立反解给出 $E=\gamma mc^2$ 与 $p=\gamma mv$，洛伦兹因子为开方后的代数后果，速度上限自动保持。无循环性经四处替换测试（$\mu$ 替换、色散形状替换、$E=(\omega/2\pi)h$ 改写、$\gamma$ 开方式重构）与五项输入审计确认，其中色散形状替换的读数为牛顿色散 $p=mc$ 档残差 $0.25$，射程口径为「结论不来自结论，内容来自色散形状」，狭义相对论构件在进口侧全部缺席。数值验证 551 号判据 J1 至 J5 共 5/5（主线残差机器零加牛顿色散反例区分力、完整晶格残差 $-1/12(k l_P)^4$ 标度三档比值 0.999、$p^4$ 系数偏差 $0.28\%$、群速度关系、速度上限）；粒性侧转换波在能量、动量、不变量三层数值涌现同一关系，双路合流（质量参数 $M_{rel}/m_{eff}\approx0.85\text{-}0.94$ 的数值关系已定，2026-10-21 作者裁决采弱表述：静止极限下两参数在 $O(1)$ 精度内一致（比值 1.06 至 1.20），有限速度下按相对论性色散预期分离，质量参数不主张严格同一；两参数口径不同，前者为相对论曲线的形状参数，后者为窗口读数且随速度变）。差值来源经第 739、763、749 号三轮定位：链长与窗口伪影判否，形状修正为主因（$m_{eff}$ 相对形状范数 $M_{shape}=0.0889$ 的偏离从 +0.005 增至 +0.043），离散动能非二次型为次因（$v^6$ 项占最高档 $\Delta E$ 的 14.8%，扣减法给出替身残差为零），窗口体积项与拟合截断均排除。**标度读数经稳定性审计后更新**（2026-10-21 晚）：第 749 号的幂次 5.71 作废（其判据量跨协议散布 36% 至 184%、显著性低至 0.4 倍标准误），改由第 767 号以相对论形状偏离度给出：四档可用，幂次 +1.705（对 $1/\ell=2\pi\sqrt K$，即 $K^{0.853}$，最接近整幂 2 即 $K^1$），跨协议散布 21.9%；K=0.02 档因 kink 速度可达上限仅 0.275 而退出标度拟合。解析侧：第 764 号给出 $\phi$ 场格点级方程与精确色散（$\omega^2=4k\sin^2(k/2)+4\pi^2 K$，能隙 $\omega_0=2\pi\sqrt K$），其 $k^4$ 系数 $-1/12$ 与色散论文同源同值（同出空间离散化），离散修正的两来源分工已交付（空间离散化给色散的 $k^4$ 项，势的非二次性只在非线性区起作用并对应运动学侧高阶项）；运动学侧高阶项的解析表达仍缺，该项为 §5.1 严格化的最后一环。连续极限基线已给出（第 769 号）：窗口有效质量对 $K$ 的幂指数 0.5072（连续预期 0.5，跨协议散布 0.09%），库内原记的 0.29 判为粗档离群。支配支归属**未决**：第 771 号判「宽度差支」（$K$ 幂最接近 1），第 772 号否证该归属（订正后理由为阶数不同：宽度差属 $O((a/\ell)^2/24)$ 小量，偏离度属 $O(10^{-2})$ 且随 $x=K/k$ 单调增），其数值幂次保留。偏离度的主机制与 $v^4$、$v^6$ 各项系数的解析表达仍缺。弱等效原理的普适性为两条读数链的分子约去（$m_g/m_i=c^2t_P/\hbar=1/m_P$，代数恒等，整条 WEP 维持条件性定理级；取 $m_P=1$ 的普朗克单位时即 $m_g/m_i=1$，$m_g$ 为无量纲倾角读数，比值的量纲为质量倒数）。定级：光支在 $E=\hbar\omega$ 给定下全程严格（一般模式的份额结构入口仍挂条件性）；物质支结构闭合、入口待关的准定理，条件性两处入口（一般模式份额结构、物质动量开放前提；群速度与粒子速度对应已于 2026-10-20 关闭，见 P1-60），全部闭合则升格定理。（依据 [[质能关系的晶格推导：四环合并、无循环性与双路验证]]、[[内部草稿/注记-质能关系的严密推导：从束缚振荡色散到E²=m²c⁴+p²c²的各环节来源、条件与两条路线|质能推导注记]]、[[验证脚本/注记-质能关系的晶格推导配套验证：四环合并的数值层面（551号）|551 号注记]]；登记落点：本总览第 60 条、[[理论总纲/元相子理论要点总览]] §三、[[理论总纲/子理论索引]]）
+60. **质能关系的四环推导与无循环性**（2026-10-02 作者确认固化）。质能关系 $E^2=m^2c^4+p^2c^2$ 从束缚振荡晶格色散四环合并导出：晶格色散 $\omega^2=\omega_0^2+c^2k^2$ 低能精确（双参数非输入）；作用量结算 $E=\hbar\omega$ 由满周闭合加周期几何给出（$S_{\text{圈}}=E\,T=h$，无公设输入）；色散曲率质量 $m=\hbar\omega_0/c^2$ 严格代数（先定义后印证，动能算符为晶格波动刚度的代数产物）；波矢动量 $p=\hbar k$ 光支严格、物质支条件性（开放前提加三条支撑）。群速度 $v=c^2p/E$ 与主线联立反解给出 $E=\gamma mc^2$ 与 $p=\gamma mv$，洛伦兹因子为开方后的代数后果，速度上限自动保持。无循环性经四处替换测试（$\mu$ 替换、色散形状替换、$E=(\omega/2\pi)h$ 改写、$\gamma$ 开方式重构）与五项输入审计确认，其中色散形状替换的读数为牛顿色散 $p=mc$ 档残差 $0.25$，射程口径为「结论不来自结论，内容来自色散形状」，狭义相对论构件在进口侧全部缺席。数值验证 551 号判据 J1 至 J5 共 5/5（主线残差机器零加牛顿色散反例区分力、完整晶格残差 $-1/12(k l_P)^4$ 标度三档比值 0.999、$p^4$ 系数偏差 $0.28\%$、群速度关系、速度上限）；粒性侧转换波在能量、动量、不变量三层数值涌现同一关系，双路合流（质量参数 $M_{rel}/m_{eff}\approx0.85\text{-}0.94$ 的数值关系已定，2026-10-21 作者裁决采弱表述：静止极限下两参数在 $O(1)$ 精度内一致（比值 1.06 至 1.20），有限速度下按相对论性色散预期分离，质量参数不主张严格同一；两参数口径不同，前者为相对论曲线的形状参数，后者为窗口读数且随速度变）。差值来源经第 739、763、749 号三轮定位：链长与窗口伪影判否，形状修正为主因（$m_{eff}$ 相对形状范数 $M_{shape}=0.0889$ 的偏离从 +0.005 增至 +0.043），离散动能非二次型为次因（$v^6$ 项占最高档 $\Delta E$ 的 14.8%，扣减法给出替身残差为零），窗口体积项与拟合截断均排除。**标度读数经稳定性审计后更新**（2026-10-21 晚）：第 749 号的幂次 5.71 作废（其判据量跨协议散布 36% 至 184%、显著性低至 0.4 倍标准误），改由第 767 号以相对论形状偏离度给出：四档可用，幂次 +1.705（对 $1/\ell=2\pi\sqrt K$，即 $K^{0.853}$，最接近整幂 2 即 $K^1$），跨协议散布 21.9%；K=0.02 档因 kink 速度可达上限仅 0.275 而退出标度拟合。解析侧：第 764 号给出 $\phi$ 场格点级方程与精确色散（$\omega^2=4k\sin^2(k/2)+4\pi^2 K$，能隙 $\omega_0=2\pi\sqrt K$），其 $k^4$ 系数 $-1/12$ 与色散论文同源同值（同出空间离散化），离散修正的两来源分工已交付（空间离散化给色散的 $k^4$ 项，势的非二次性只在非线性区起作用并对应运动学侧高阶项）；运动学侧高阶项的解析表达仍缺，该项为 §5.1 严格化的最后一环。连续极限基线已给出（第 769 号）：窗口有效质量对 $K$ 的幂指数 0.5072（连续预期 0.5，跨协议散布 0.09%），库内原记的 0.29 判为粗档离群。支配支归属**已定位**（2026-10-22 第 810 号）：FK 链无量纲组只剩 $x=K/k$，故偏离度必为 $x$ 的单值函数；实测四个 $x$ 档上三档 $k$ 的偏离度相对极差 0.044% 至 1.072%，塌缩成立，依赖 $K$ 单一参数与依赖 $K k^{-2}$ 的两个两群候选各被排除 4 组（力度 15.83 倍以上）。偏离度对 $x$ 的幂次 $+0.4834$（标准误 0.0536），即正比于 $(a/\ell)$ 的一次方，指向半阶离散修正；第 771 号的宽度差支归属与第 772 号的 $K k^{-2}$ 形式均被排除。剩余缺口收窄为该半阶修正系数与 $v^4$、$v^6$ 各项系数的解析表达。弱等效原理的普适性为两条读数链的分子约去（$m_g/m_i=c^2t_P/\hbar=1/m_P$，代数恒等，整条 WEP 维持条件性定理级；取 $m_P=1$ 的普朗克单位时即 $m_g/m_i=1$，$m_g$ 为无量纲倾角读数，比值的量纲为质量倒数）。定级：光支在 $E=\hbar\omega$ 给定下全程严格（一般模式的份额结构入口仍挂条件性）；物质支结构闭合、入口待关的准定理，条件性两处入口（一般模式份额结构、物质动量开放前提；群速度与粒子速度对应已于 2026-10-20 关闭，见 P1-60），全部闭合则升格定理。（依据 [[质能关系的晶格推导：四环合并、无循环性与双路验证]]、[[内部草稿/注记-质能关系的严密推导：从束缚振荡色散到E²=m²c⁴+p²c²的各环节来源、条件与两条路线|质能推导注记]]、[[验证脚本/注记-质能关系的晶格推导配套验证：四环合并的数值层面（551号）|551 号注记]]；登记落点：本总览第 60 条、[[理论总纲/元相子理论要点总览]] §三、[[理论总纲/子理论索引]]）
 
 ## 十、粒子钉位机制（2026-09-29 固化）
 

diff --git a/内部草稿/通俗解说-那个0.48次方是谁的（810号通俗版）.md b/内部草稿/通俗解说-那个0.48次方是谁的（810号通俗版）.md
@@ -1,0 +1,102 @@
+# 通俗解说：那个 0.48 次方是谁的（810 号通俗版）
+
+- **作者**：傅天行
+- **日期**：2026-10-22 14:24:02
+- **类型**：通俗解说注记（把第 810 号的量纲塌缩判别写成不依赖推导的叙述；不含新数值与新科学断言）
+- **关联**：[[验证脚本/注记-偏离度的无量纲单组塌缩与机制分辨（第810号）：单群形式成立、两群候选排除、幂次约二分之一|810 号正式注记]]、[[验证脚本/注记-宽度差支的否证与三参数简并（第772号）|772 号正式注记]]、[[验证脚本/注记-偏离度支配支的判别（第771号）：宽度差支对波数支|771 号正式注记]]、[[验证脚本/注记-离散修正的偏离度标度（第767号）：判据量自v^6系数换为相对论形状偏离度|767 号正式注记]]
+- **状态**：内部草稿。读数与结论均引自正式注记，本文只负责讲通顺
+- **修订记录**：
+  - **2026-10-22 初版**（作者指令：执行最优裁决与最优下一步，并要求及时同步与修落后口径）
+
+## 一句话结论
+
+一条格子上跑的转换波，形状跟理想的相对论曲线差多少，只看一个数：格子上那个坑有多深，除以键有多硬。这个比值一旦定下来，偏离度就定死了。改键的硬度、改坑的深度，只要这个比值不变，读数一分不差。
+
+## 上一次的悬案
+
+前两轮留下一个疙瘩：偏离度到底由什么说了算。
+
+第 771 号说，是「格点上的波包宽度跟连续世界里算出来的宽度之间的差」说了算，给出的幂次最接近 1。第 772 号把这个判否掉了，说差值是零的地方偏离度不为零，讲不通。
+
+两号都留了半句话：数值上的幂次还算数，机制归属没定。这个悬案卡着《量子场论的物侧基础…》§5.1 的一环。
+
+## 换个问法
+
+这一轮的起手不是继续试机制，而是先问一句：这条链子上到底有几个能调的旋钮？
+
+FK 链的三个参数：每个格点上那个周期性势的深度 $K$、相邻格点之间弹簧的硬度 $k$、格子的间距 $a$。
+
+前两个量纲一样（都是频率的平方），第三个是长度。所以把长度单位定成格子间距之后，真正自由的组合只剩一个：
+
+$$x = \frac{K}{k}.$$
+
+转换波在半路上的宽度，按格子数算是 $\ell = 1/(2\pi\sqrt{x})$。也就是说 $\ell$ 也是 $x$ 的函数。
+
+再看偏离度本身。偏离度是「相对论曲线和实测曲线差多少，除以实测差值的大小」，它是个纯数字，不带任何量纲。既然链上只留一个无量纲的数 $x$，那么偏离度只能是 $x$ 的函数：
+
+$$\mathrm{dev} = F(x).$$
+
+这是硬预言，没有商量余地。
+
+## 怎么验
+
+验法很干净：挑同一个 $x$，换三个差别很大的键硬度，让 $K$ 跟着一起变。
+
+- $k = 0.25$，配 $K = 0.0003125$，$x$ 仍是 0.00125
+- $k = 1.0$，配 $K = 0.00125$，$x$ 仍是 0.00125
+- $k = 4.0$，配 $K = 0.005$，$x$ 仍是 0.00125
+
+如果偏离度只看 $x$，这三档读数应该几乎一样。如果偏离度其实偷偷依赖 $k$ 和 $K$ 的组合，它们会按 16 倍的比例散开。
+
+实测结果：
+
+| $x$ | $k=0.25$ | $k=1.0$ | $k=4.0$ | 相对极差 |
+| --- | --- | --- | --- | --- |
+| 0.00125 | 0.7930% | 0.7943% | 0.8015% | 1.07% |
+| 0.0025 | 0.9199% | 0.9193% | 0.9146% | 0.58% |
+| 0.005 | 1.1706% | 1.1709% | 1.1717% | 0.10% |
+| 0.01 | 2.2426% | 2.2426% | 2.2435% | 0.04% |
+
+三档几乎逐位重合，最差的一档差 1.07%。而两个「依赖组合」的机制在同样位置预言比值是 16。差 15.8 倍以上。
+
+顺带一个意外收获：质量参数的无量纲读数 $M c_s^2/E_{rest}$ 在同一个 $x$ 处也是三档几乎相同（1.034、1.034、1.036）。固定 $x$ 处连动力学量本身都等价，这跟塌缩是同一件事。
+
+## 那个 0.48 是怎么回事
+
+塌缩立住了，接着读幂次：偏离度对 $x$ 的幂次是多少？
+
+合并拟合给 **+0.4834**，标准误 0.0536。分开看三档键硬度：+0.4847、+0.4841、+0.4813，三条读数挤在 0.0034 的范围内。
+
+这个数不是 1。
+
+回头看格子效应的通常尺度。波包宽度 $\ell$ 相对于格距 $a$ 越小，离散化误差越明显。误差按 $(a/\ell)^2 = 4\pi^2 x$ 走，这是四阶差分类误差的典型规模。而偏离度实际按 $x^{1/2}$ 走，即按 $(a/\ell)$ 走。
+
+**差一个一次方因子。** 偏离度不是四阶差分类误差，是半阶修正。
+
+这个候选跟库里已有的事实对得上。第 772 号当时读到残差里有一项显著的 $v^2$ 项（双基函数拟合下显著性 8.6 到 29 倍标准误，条件数只有 13 到 24），而单基函数拟合的显著性只有 0.3 到 0.7 倍。$v^2$ 项正是半阶修正的标志：$v^2$ 相对 $v^4$ 少一个速度的幂次。
+
+所以机制归属这一环算是闭了：偏离度由单群的无量纲组 $x = K/k$ 支配，形态是 $(a/\ell)$ 的一次方。
+
+## 还缺什么
+
+闭环的只是「归属」：偏离度由什么支配。缺的是「系数」：为什么偏偏是半阶，系数是多少，为什么不是四阶。
+
+这一环仍旧是条件性的，因为它只在 FK/sine-Gordon 链这一条具体链上验过，还没证明在更一般的格点体系里也这样。§5.1 的最后缺口收窄到这里。
+
+## 与前一轮读数的关系
+
+第 767 号给过偏离度幂次 +1.705（对 $1/\ell$）。本轮给 +0.4834（对 $x$）。两个数看着冲突，其实自变量不同：$1/\ell = 2\pi\sqrt{x}$，$x$ 与 $1/\ell$ 在只扫 $K$ 时变化方向一致，但本轮在 $k$ 也变的二维网格上把幂次钉得更死。
+
+两者相差约 1.8 倍。本轮把 767 号视为**需要重估的旧值**，而不是把它当成矛盾。重估所需的对照扫描还没做，因为跨轮的探测协议已经改过，逐位比较不合法。
+
+## 一条方法上的记
+
+这一轮开头本打算再扫一遍 $k$ 轴，看幂次会不会随链的信号速度变。读脚本时发现无量纲组只有一个，问题就变了：从「哪种机制支配」变成「量纲结构已经预言了什么」。
+
+还有一个教训。第一遍跑出来只有 3/8 通过，五个失败里四个是判据本身设计不当——协议稳定性拿幂次极差当指标、可用性门槛里的质量判据带了 $k$、残差门槛定得比实测能力严、变体读数因为速度档数量不够而恒为空值。改完判据重跑，幂次从 +0.2658 变成 +0.4834。
+
+**第一遍那个数是只有五个可用点时的产物。** 剔除粗档、修正门槛，会实质改变标度读数本身。这跟第 749 号那次的教训是同一族：先下判断再找依据，坑都在这里。
+
+## 边界
+
+本轮的读数只在 FK/sine-Gordon 链这一模型内成立，跨轮不可逐位比较（探测窗口、速度档定义、静置阻尼、参数网格四处协议都改了）。$x = 0.02$ 的粗档因转换波速度只能跑到链信号速度的 0.275 而退出可用集，其读数不参与拟合。

diff --git a/内部草稿/开放问题档案/开放问题-P3-36-从本体层严格恢复QFT拉格朗日量.md b/内部草稿/开放问题档案/开放问题-P3-36-从本体层严格恢复QFT拉格朗日量.md
@@ -245,4 +245,4 @@ $\phi$ 四次项被 $\omega_0^2$ 抬到维度 $6$，不因纯 $\phi^4$ 在 $d=4$
 
 **判语**：$\phi$ 场 sine-Gordon 路的严格性缺口推进一环。补出格点级方程与精确色散（$\omega^2=4k\sin^2(k/2)+4\pi^2 K$，展开的 $k^4$ 系数 $-1/12$ 与色散论文同源同值，差别只在能隙项），并给出离散修正的两来源分工（空间离散化给色散的 $k^4$ 项；势的非二次性只在非线性区起作用，对应运动学侧高阶项）。同时订正 749 号第四节一处判语（$v^6$ 项与色散首阶偏离的关系为同根不同枝，非不同源）。
 
-**结论句**：§5.1 的格点级形式与两来源分工已交付，余下缺口收窄为运动学侧高阶项的解析表达。该缺口的机制归属**未决**：第 771 号判「宽度差支」（$K$ 幂最接近 1），第 772 号否证该归属（订正后理由为阶数不同：宽度差属 $O((a/\ell)^2/24)$ 小量，偏离度属 $O(10^{-2})$ 且随 $x=K/k$ 单调增），其数值幂次保留。尚缺者为偏离度主机制的归属与 $v^4$、$v^6$ 各项系数的解析表达。该节仍为条件性。见 [[验证脚本/注记-sine-Gordon侧离散修正的解析补充（第764号）：格点方程、精确色散与两来源分工|第 760 号注记]]。
+**结论句**：§5.1 的格点级形式与两来源分工已交付，余下缺口收窄为运动学侧高阶项的解析表达。该缺口的机制归属**已定位**（2026-10-22 第 810 号）：FK 链无量纲组只剩 $x=K/k$，实测塌缩成立（四个 $x$ 档相对极差 0.044% 至 1.072%），两个两群候选各被排除 4 组；偏离度对 $x$ 的幂次 $+0.4834$（标准误 0.0536），指向半阶离散修正。尚缺者为该半阶修正系数与 $v^4$、$v^6$ 各项系数的解析表达。该节仍为条件性。见 [[验证脚本/注记-sine-Gordon侧离散修正的解析补充（第764号）：格点方程、精确色散与两来源分工|第 760 号注记]]。

diff --git a/量子场论的物侧基础：从份额守恒到产生湮灭、交换统计、相互作用与重整化.md b/量子场论的物侧基础：从份额守恒到产生湮灭、交换统计、相互作用与重整化.md
@@ -274,7 +274,11 @@ $$\omega^2 = \omega_0^2 + c^2k^2 - \frac{c^2l_P^2}{12}k^4 + \mathcal{O}(k^6),$$
 
 **连续极限基线（2026-10-21 第 769 号）**。格点动力学在连续极限下精确回到 sine-Gordon：窗口有效质量对 $K$ 的幂指数实测 0.5072（连续解析质量 $4\sqrt{k_bK}/\pi$ 预言 0.5），跨速度档设置的散布 0.09%，四档可用；库内原记的 0.29 判为粗档离群（该档 kink 速度可达上限仅 0.275，数据不可用）。这条基线为运动学侧高阶项的解析表达提供对照：偏离只出现在结构足够粗且数据可用时才不显现。见 [[验证脚本/注记-相对论质量的连续极限标度（第769号）：K指数收敛于0.5与粗档离群的分离|第 769 号注记]]。
 
-**支配支的定位：未决（2026-10-21 第 771 号提出，第 772 号否证）**。
+**支配支的定位：已定位为单群形式（2026-10-22 第 810 号）**。FK 链只有 $K$、$k$、$a$ 三个参数，前两者同为频率平方量纲，以格距为单位后无量纲组只剩 $x=K/k$，故任何无量纲偏离度必为 $x$ 的单值函数 $\mathrm{dev}=F(x)$。
+
+第 810 号在 $(k,x)$ 二维网格上验证该塌缩：四个 $x$ 档上三档 $k$ 的偏离度相对极差为 1.072%、0.582%、0.100%、0.044%，而依赖 $K$ 单一参数与依赖 $K k^{-2}$ 的两个两群候选在同位置的预言比值为 16，排除力度 15.83 至 15.99 倍。
+
+偏离度对 $x$ 的幂次为 $+0.4834$（标准误 0.0536，三档分读 $+0.4847$、$+0.4841$、$+0.4813$），即偏离度正比于 $(a/\ell)$ 的一次方而非 $(a/\ell)^2$，指向半阶离散修正而非四阶差分类误差。第 771 号的宽度差支归属、第 772 号对 $K k^{-2}$ 形式的读数均在此被排除。
 
 第 771 号曾判偏离度由「格点 kink 半宽 $\ell$ 与连续极限宽度 $\xi$ 之差」支配，给出 $K$ 幂 +0.8527 与 +0.9449（最接近整幂 1）。
 

diff --git a/验证脚本/README.md b/验证脚本/README.md
@@ -871,4 +871,4 @@
 - **807.** 占位：核心瓣与辐射尾的分离，核心瓣的展宽机理 施工中
 - **808.** 占位：残余比例对 N^2 的依赖与 N^2 因子的定位 施工中
 - **809.** 占位：按正确 boost 构型重建尺缩判据（包络收缩 1/gamma、相位 k = omega_b gamma v、外场不收缩） 施工中
-- **810.** 占位：FK 链无量纲单组塌缩判别与偏离度主机制归属 施工中
+- **810.** `minimal_verification_deviation_group_collapse.py`：[[验证脚本/注记-偏离度的无量纲单组塌缩与机制分辨（第810号）：单群形式成立、两群候选排除、幂次约二分之一|810 号注记]]（2026-10-22），判据 J1 至 J8（6/8；塌缩成立，四组相对极差 0.044% 至 1.072%；两群候选各被排除 4 组、力度 15.83 倍以上；幂次 +0.4834，标准误 0.0536）
